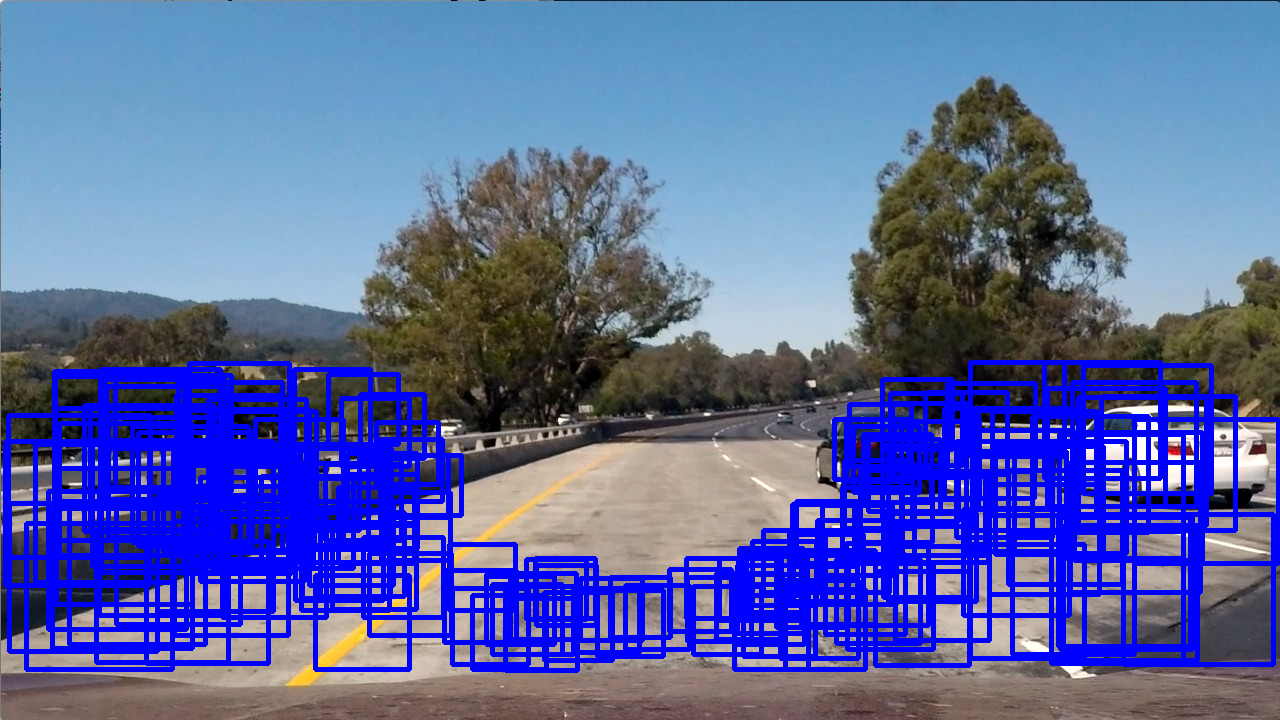
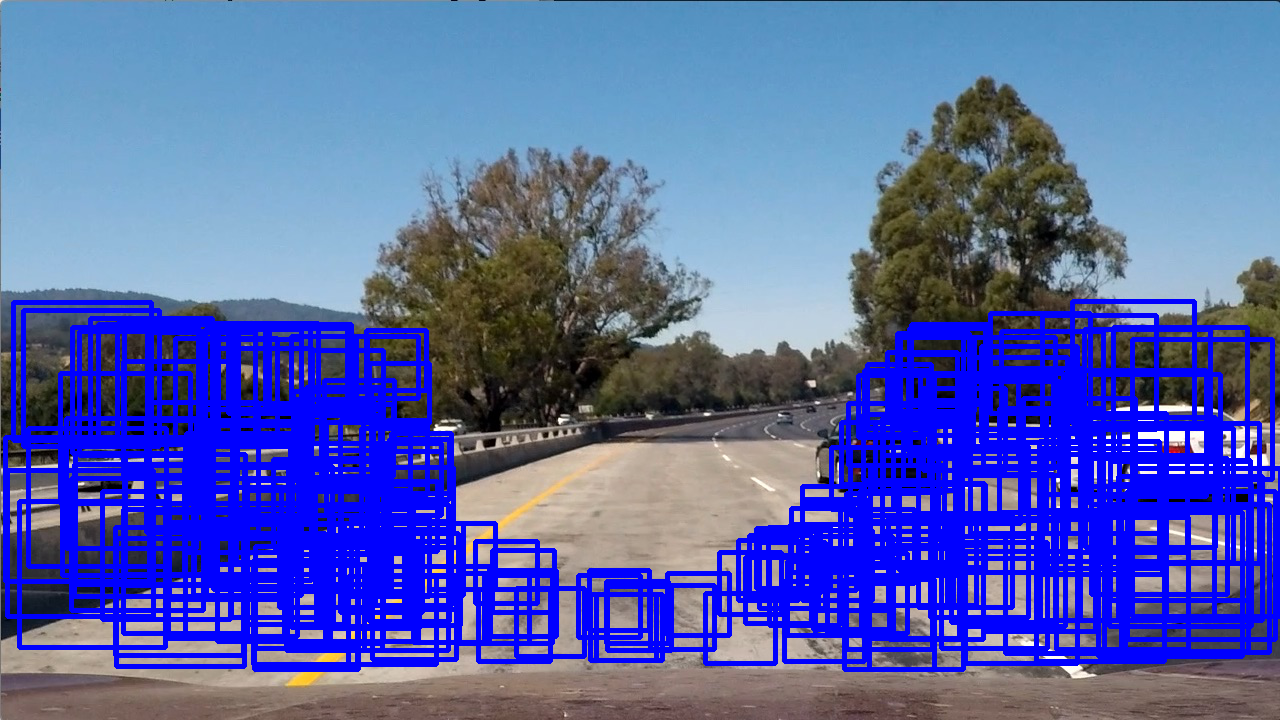
Progress

Changed region(s): [[0.0, 0.3972, 1.0, 0.9472]]

diff --git a/detect.py b/detect.py
@@ -51,9 +51,9 @@ Theta.orient = 9
 Theta.pix_per_cell = 8
 Theta.transform_sqrt = False
 Theta.test_size = 0.2
-Theta.threshold = 25
-Theta.numwindows = 50
-Theta.cooling_factor = 0.99
+Theta.threshold = 30
+Theta.numwindows = 100
+Theta.cooling_factor = 0.97
 
 def extract_features(img):
     img = scale(img)
@@ -354,7 +354,7 @@ print(len(list(map(lambda w: draw_window(image, w[:2]), sparse_scan(image)))))
 mpimg.imsave("output_images/sparse-scan.png", image, format="png")
 
 image = scale(mpimg.imread("test_images/test1.jpg"))
-clip = VideoClip(get_frame_maker(image, cycle(random_scan4(image,2))), duration=10)
+clip = VideoClip(get_frame_maker(image, cycle(sparse_scan(image))), duration=10)
 clip.write_videofile("output_images/sparse-scan.mp4", fps=25)
 
 def dense_scan(img, h=2,w=2):
@@ -364,6 +364,7 @@ def dense_scan(img, h=2,w=2):
     grid = filter(lambda x: clip_window2(x, img), grid)
     return grid
 
+
 image = scale(mpimg.imread("test_images/test1.jpg"))
 print(len(list(map(lambda w: draw_window(image, w[:2]), dense_scan(image)))))
 mpimg.imsave("output_images/dense-scan.png", image, format="png")
@@ -372,20 +373,20 @@ image = scale(mpimg.imread("test_images/test1.jpg"))
 clip = VideoClip(get_frame_maker(image, cycle(dense_scan(image))), duration=20)
 clip.write_videofile("output_images/dense-scan.mp4", fps=60)
 
-
-
 def random_scan4(img,size,num=100,width=25,left=-12.5):
     grid = np.random.rand(num,3)
     grid[:,0]*=width
     grid[:,1]*=2
-    grid[:,2]*=20
+    grid[:,1]-=2
+    grid[:,2]*=40
     grid[:,0]+=left
     grid[:,1]-=4
     grid[:,2]+=5
     grid = grid.astype('int')
-    grid = (get_window(img,x[0],x[1],x[2], height=h, width=w)+[x] for x in grid)
+    grid = (get_window(img,x[0],x[1],x[2], height=4, width=4)+[x] for x in grid)
     grid = filter(lambda x: clip_window2(x, img), grid)
     return grid
+
 
 image = scale(mpimg.imread("test_images/test1.jpg"))
 print(len(list(map(lambda w: draw_window(image, w[:2]), random_scan4(image,2,1000)))))
@@ -397,8 +398,8 @@ clip.write_videofile("output_images/random-scan4.mp4", fps=60)
 
 
 def random_scan5(img,size,num=100):
-    grid = chain(random_scan4(img,size,num//2,width=10,left=-15),
-                 random_scan4(img,size,num//2,width=10,left=+5))
+    grid = chain(random_scan4(img,size,num//2,width=20,left=-30),
+                 random_scan4(img,size,num//2,width=20,left=+10))
     return grid
 
 
@@ -503,27 +504,17 @@ class Component:
         self.addboxes(self.bboxwindow, grid)
         results = self.sample(self.mainwindow, grid)
         self.heat(results)
+        self.heatmap = cv2.GaussianBlur(self.heatmap, (31, 31), 0)
         thresholded = apply_threshold(self.get_heatmap(),Theta.threshold)
         self.labels = label(thresholded)
         draw_labeled_bboxes(self.mainwindow, self.labels)
-        # self.spawn(image)
-        # if len(self.children)>0:
-        #     list(c.evolve(image) for c in self.children)
 
 
     def get_out_img(self):
         bbox_img = cv2.resize(self.bboxwindow, tuple(np.array(self.image.shape[:2][::-1])//2))
-        # cmap = plt.get_cmap('hot')
-        # rgba_img = scale(cmap(self.get_heatmap()),Theta.threshold)
-        # rgb_img = np.delete(rgba_img, 3, 2)
-        # hot1_img = cv2.resize(rgb_img, tuple(np.array(image.shape[:2][::-1])//2))
         hot2_img = cv2.resize(scale(np.dstack([self.get_heatmap(), self.get_heatmap(), self.flat]), 2*Theta.threshold), tuple(np.array(image.shape[:2][::-1])//2))
-        # cv2.putText(hot1_img, "Max: %.2f" % np.max(self.get_heatmap()), (25,25), cv2.FONT_HERSHEY_DUPLEX, 1, (255,255,255), 2)
         cv2.putText(hot2_img, "Max: %.2f" % np.max(self.get_heatmap()), (25,25), cv2.FONT_HERSHEY_DUPLEX, 1, (255,255,255), 2)
         flat_img = cv2.resize(np.dstack([self.flat, self.flat, self.flat]), tuple(np.array(image.shape[:2][::-1])//2))
-        # hot2_img = cv2.resize(np.dstack([self.get_heatmap(), self.get_heatmap(), self.flat]),
-        #                       tuple(np.array(image.shape[:2][::-1])//2))
-        # chld_img = cv2.resize(self.chld_img, tuple(np.array(image.shape[:2][::-1])//2))
         outp_img = cv2.resize(np.hstack((np.vstack((self.mainwindow,
                                                     np.hstack((flat_img,
                                                                flat_img)))),
@@ -531,7 +522,6 @@ class Component:
                                                     hot2_img,
                                                     flat_img)))),
                               tuple(np.array(self.image.shape[:2][::-1])))
-        # cv2.putText(outp_img, "Cars: %s" % self.labels[1], (50,80), cv2.FONT_HERSHEY_DUPLEX, 1, (255,255,255), 2)
         return outp_img
 
 
@@ -539,78 +529,15 @@ class Component:
         return list(random_scan5(self.image,
                                  2,
                                  num))
-        # return list(random_scan3(self.image,
-        #                          self.image.shape[1]//4,
-        #                          num,
-        #                          minr=image.shape[0]//4,
-        #                          mintheta=0,
-        #                          maxtheta=math.pi))
 
 
     def addboxes(self, bboxwindow, grid):
         list(map(lambda w: draw_window(bboxwindow, w[:2]), grid))
 
 
-    def spawn(self, image):
-        thresholded = apply_threshold(self.heatmap,Theta.threshold)
-        labels = label(thresholded)
-        spawned = []
-
-        for car_number in range(1, labels[1]+1):
-            nonzero = (labels[0] == car_number).nonzero()
-            nonzeroy = np.array(nonzero[0])
-            nonzerox = np.array(nonzero[1])
-            bbox = ((np.min(nonzerox), np.min(nonzeroy)),
-                    (np.max(nonzerox), np.max(nonzeroy)))
-            size = min(bbox[0][1]-bbox[0][0], bbox[1][1]-bbox[1][0])
-            center = (int(np.mean((np.min(nonzerox), np.max(nonzerox)))),
-                      int(np.mean((np.min(nonzeroy), np.max(nonzeroy)))))
-            overlaps = []
-            for c in self.children:
-                c1 = c.get_center()
-                r1 = c.get_size()//2
-                dist = int(math.sqrt(sum([(c1[0]-image.shape[1]//2)**2,
-                                          (c1[1]-image.shape[0]//2)**2])))
-                if dist<=10*r1:
-                    overlaps+=[c]
-            if len(overlaps)==0:
-                spawned+=[Vehicle(self, self.pool, self.image, 128, center)]
-        self.children+=spawned
-
-
     def process_image(self, image):
         self.evolve(image)
         return self.get_out_img()
-
-
-class Vehicle(Component):
-    def __init__(self, scene, pool, img, size=None, center=None):
-        super().__init__(pool, img, center, size)
-        self.scene = scene
-    
-    def grid(self, num):
-        return list(random_scan3(self.image, self.image.shape[1]//32, center=self.center, maxr=self.image.shape[1]//16, num=Theta.numwindows, scale=False))
-        
-    def evolve(self, image, chld_img=None):
-        self.cool()
-        grid = self.grid(Theta.numwindows)
-        results = self.sample(image, grid)
-        self.addboxes(scene.bboxwindow, grid)
-        self.addboxes(scene.chld_img, grid)
-        self.heat(results)
-        thresholded = apply_threshold(self.heatmap,20)
-        labels = label(thresholded)
-        for car_number in range(1, labels[1]+1):
-            nonzero = (labels[0] == car_number).nonzero()
-            nonzeroy = np.array(nonzero[0])
-            nonzerox = np.array(nonzero[1])
-            bbox = ((np.min(nonzerox), np.min(nonzeroy)),
-                    (np.max(nonzerox), np.max(nonzeroy)))
-            center = (int(np.mean((np.min(nonzerox), np.max(nonzerox)))),
-                      int(np.mean((np.min(nonzeroy), np.max(nonzeroy)))))
-            self.center = center
-            self.size = min(bbox[1][0]-bbox[0][0],
-                            bbox[1][1]-bbox[1][0])
 
 
 builtins.__dict__.update(locals())
@@ -627,7 +554,7 @@ finally:
     in_clip = None
 
 
-import pstats
-p = pstats.Stats('restats')
-p.sort_stats('time').print_stats(100)
-p.sort_stats('cumulative').print_stats(100)
+# import pstats
+# p = pstats.Stats('restats')
+# p.sort_stats('time').print_stats(100)
+# p.sort_stats('cumulative').print_stats(100)
